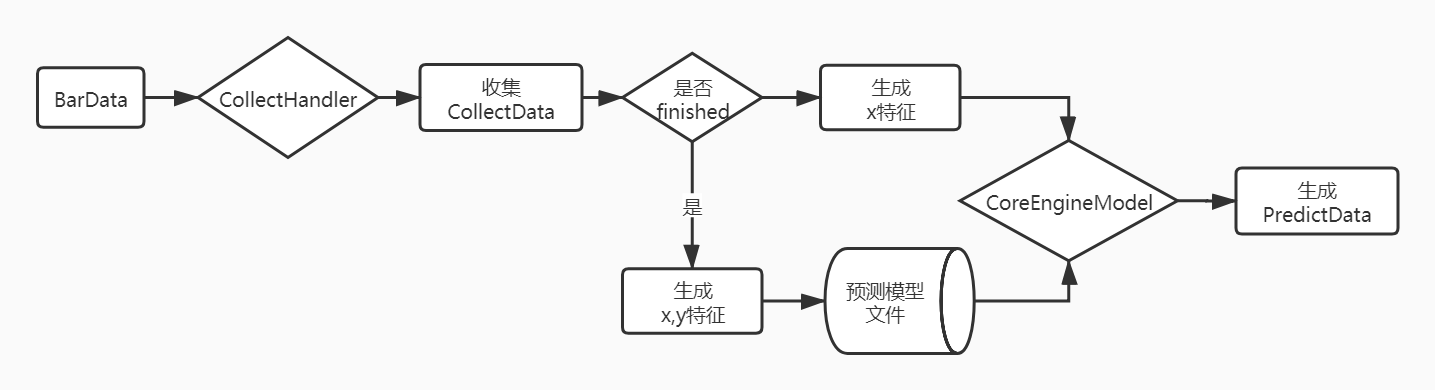
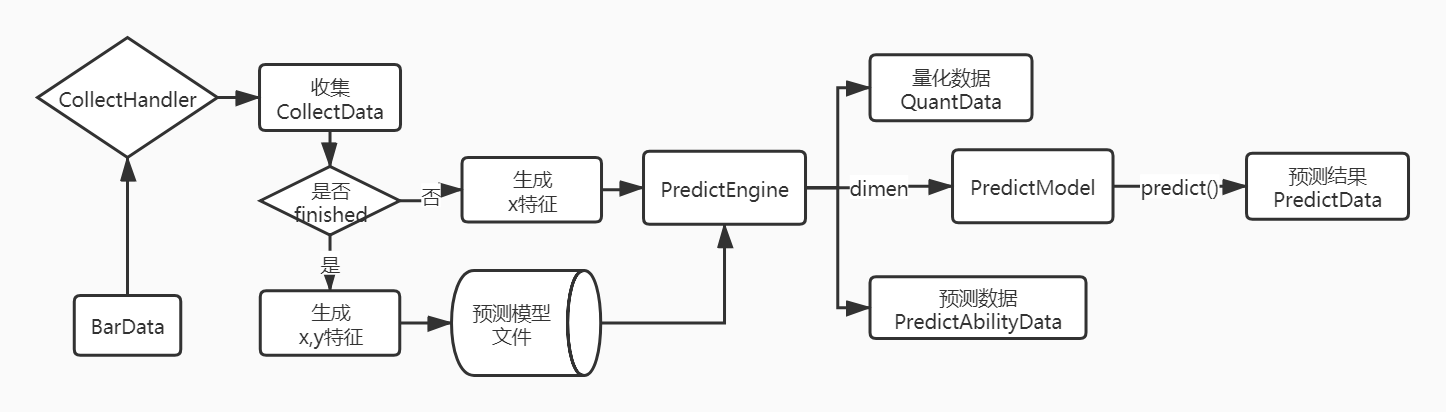
调整模型结构

diff --git a/vnpy/SUMMARY.md b/vnpy/SUMMARY.md
@@ -13,28 +13,25 @@
             * 基于因子分数的操作策略（使用日，分钟k线)
         * [Op操作单框架](earnmi_docs/book/op_project.md)
             * [数据库设计](earnmi_docs/book/op_project_database.md)
-        * [行情数据更新]()
-        * [数据定期清理]()
     * [行情数据](earnmi_docs/book/数据源.md)
         * [数据驱动BarDriver](earnmi_docs/book/数据源.md#BarDataDriver)
         * [行情数据BarData](earnmi_docs/book/数据源.md#BarData)
         * [行情数据下载与调用](earnmi_docs/book/数据源.md#Market)
         * [数据更新、缓存:BarDataHandler]()
     * [分析框架]()
+        * [分布分析、FloatEncode和FloatRange]()
+              * [!!!名称需要重构]()
         * [IndicatorMeasure:指标测量](earnmi_docs/book/指标测量.md)
         * [行情图查看:Chart]()
         * [PredictModeL:预测模型](earnmi_docs/book/predict_model.md)
-            * [CollectData:数据收集]()
-            * [PredictModel:生成模型]()
-            * [PredcitData:预测模型]()
-            * [一个完整的模型预测例子]()
-            * [模型调优]()
+            * [!!!太乱，需要重新重构]()
+     * [指标分析]()
         * [自建指标](earnmi_docs/book/自建指标.md)
     * [线上Runner]
         * [skdj_500]()
-
     * [网站系统]()
-        
+        * [数据定期清理]()
+
      
 * [VN文档](README.md)
 * [Talib学习](earnmi_docs/Talib学习.md)

diff --git a/vnpy/earnmi_docs/book/predict_model.md b/vnpy/earnmi_docs/book/predict_model.md
@@ -1,5 +1,5 @@
 
-##预测分析处理
+#预测分析处理
 
 ![](imges/预测模型分析过程.jpg)
 
@@ -8,3 +8,41 @@
 +   对于finished的CollectData可以生成x,y特征做训练集合生成模型文件
 +   对于unfinished的CollectData可以生成PredictData
 
+###Dimension
+所有预测、模型分析的基于某个维度的情况下，维度值相同说明了他们收集和预测的特征值是同一个范围内。通过维度值的调整从而达到预测的样本空间数据问题。
+
+###CollectData:数据收集]
+
++ dimen: 某个维度，由于CollectData是众多行情市场的一个，
++ occurBars: 收集前的bars行情
++ predictBars: 收集后的需要预测bars行情
++ occurExtra: 收集前的额外数据
++ predictExtra：收集后的额外数据
+
+
+###CoreEngine预测模型
+#####生成预测模型
+
+```python
+_dirName = "..." ##模型存放路径
+model = SKDJ_EngineModelV2()
+historySource = ZZ500DataSource(start, middle)
+engine = CoreEngine.create(_dirName, model, historySource, min_size=200, useSVM=False)
+```
+
+#####加载预测模型
+
+```python
+_dirName = "..." ##模型存放路径
+model = SKDJ_EngineModelV2()
+engine = CoreEngine.load(_dirName,model)
+```
+
+#####预测数据
+
+```python
+cData:CollectData = None
+predict_model = engine.loadPredictModel(cData.dimen)
+predict_data = predict_model.predict(cData)
+```
+###使用模型预测
